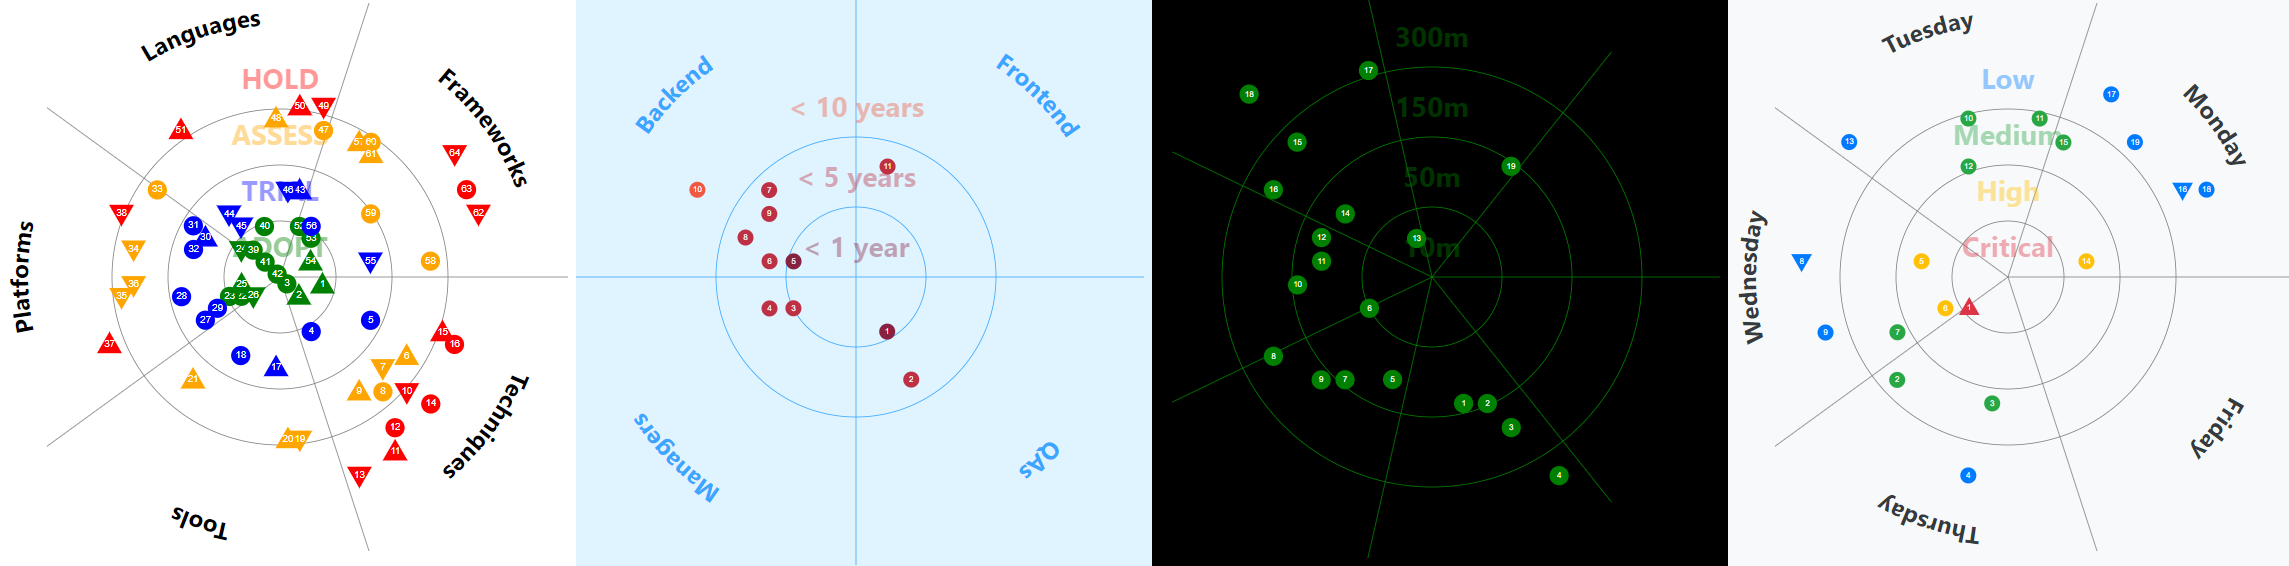
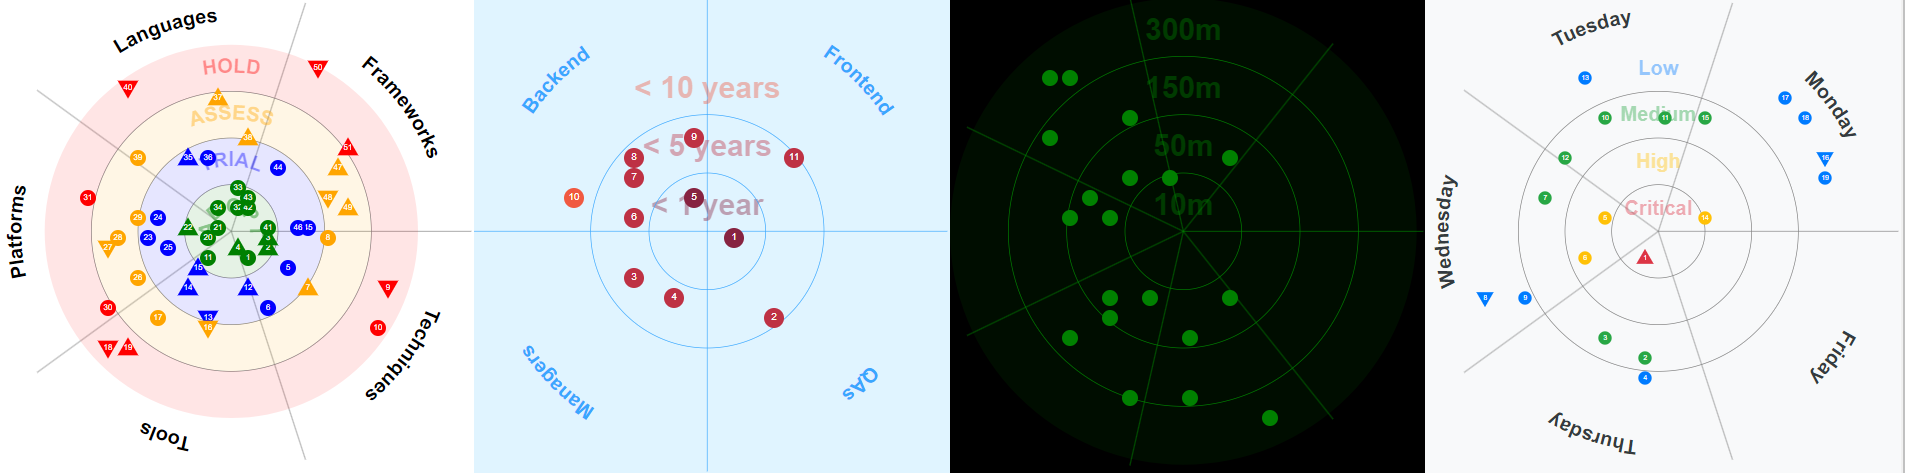
Add sector highlighting and tooltip enablement

diff --git a/tests/RadarRenderer.test.ts b/tests/RadarRenderer.test.ts
@@ -8,6 +8,22 @@ const getTooltipElement = () => getRadarElement()._children[2];
 
 let elements: any = {};
 
+const findElementById = (element: any, id: string) :any => {
+    if (element._attributes['id'] === id) {
+        return element;
+    } else if (element._children.length > 0) {
+        for (let i = 0; i < element._children.length; i++) {
+            const child = findElementById(element._children[i], id);
+            if (child !== undefined) {
+                return child;
+            }
+        }
+        
+    }
+
+return undefined;
+};
+
 jest.mock('d3', () => ({
     select: jest.fn().mockImplementation((name: string) => {
         return elements[name];
@@ -87,6 +103,7 @@ describe('RadarRenderer', () => {
     let renderer: RadarRenderer;
 
     const render = () => {
+        elements = { '#test': mockD3Element('#test') };
         radar = new EgRadar(config);
         renderer = new RadarRenderer(radar);
         renderer.render('test');
@@ -117,7 +134,7 @@ describe('RadarRenderer', () => {
                 font: "Arial",
                 tooltip: { background: "#abc", fontSize: 15, textColor: "#def" },
                 rings: { showLabels: true, fontSize: 30, showCurvedLabels: false },
-                sectors: {showLabels: true, textColor: "#fff", fontSize: 30}
+                sectors: { showLabels: true, textColor: "#fff", fontSize: 30, highlight: true }
             }
         };
         (d3.select as jest.Mock).mockClear();
@@ -314,7 +331,7 @@ describe('RadarRenderer', () => {
                 render();
 
                 const ringLabelsElement = getGridElement()._children.filter((child: any) => child._attributes["id"] === 'ringLabels_test')[0];
-                const ringLabels = ringLabelsElement._children.filter((child:any) => child._name === "text").map((child:any) => child._children[0]);
+                const ringLabels = ringLabelsElement._children.filter((child: any) => child._name === "text").map((child: any) => child._children[0]);
 
                 expect(ringLabels.length).toEqual(config.rings.length);
 
@@ -498,14 +515,29 @@ describe('RadarRenderer', () => {
             expect(config.onSelect).toHaveBeenCalledWith(entry);
         });
 
-        it('should highlight sector on click event', () => {
+       it('should highlight sector on click event, highlight = true', () => {
             click({}, entry);
 
             expect(config.onSelect).toHaveBeenCalledWith(entry);
+            
+            expect(elements['#test'].select).toHaveBeenCalledWith("#legendText0_test");
+            expect(elements['#test'].select).toHaveBeenCalledWith("#legendText1_test");
+            expect(elements['#test'].select).toHaveBeenCalledWith("#legendText2_test");
 
             expect(getSvgElement()._children[1]._styles['opacity']).toEqual(1);
             expect(getSvgElement()._children[2]._styles['opacity']).toEqual(0.3);
             expect(getSvgElement()._children[3]._styles['opacity']).toEqual(0.3);
+        });
+
+        it('should not highlight sector on click event, highlight = false', () => {
+            config.style!.sectors!.highlight = false;
+            render();
+
+            click({}, entry);
+            expect(elements['#test'].select).not.toHaveBeenCalledWith("#legendText0_test");
+            expect(elements['#test'].select).not.toHaveBeenCalledWith("#legendText1_test");
+            expect(elements['#test'].select).not.toHaveBeenCalledWith("#legendText2_test");
+            expect(config.onSelect).toHaveBeenCalledWith(entry);
         });
 
     });
@@ -557,7 +589,7 @@ describe('RadarRenderer', () => {
 
         expect(blipLabel._attributes['y']).toEqual(3);
         expect(blipLabel._attributes['text-anchor']).toEqual("middle");
-        expect(blipLabel._styles['fill']).toEqual("#fff");
+        expect(blipLabel._styles['fill']).toEqual("white");
         expect(blipLabel._styles['font-family']).toEqual(config.style?.font);
         expect(blipLabel._styles['font-size']).toEqual(config.style?.blips?.fontSize);
         expect(blipLabel._styles['pointer-events']).toEqual("none");

diff --git a/src/RadarRenderer.ts b/src/RadarRenderer.ts
@@ -179,7 +179,7 @@ export class RadarRenderer {
             .text(entry.id + 1)
             .attr("y", 3)
             .attr("text-anchor", "middle")
-            .style("fill", "#fff")
+            .style("fill", this.radar.style.blips?.textColor)
             .style("font-family", this.radar.style.font)
             .style("font-size", this.radar.style.blips!.fontSize)
             .style("pointer-events", "none")
@@ -267,25 +267,27 @@ export class RadarRenderer {
     }
 
     private highlightSector(sector: Sector) {
-        this.svg.selectAll(".blip")
-            .style("opacity", (entry: any) => sector.id == entry.sector?.id ? 1 : 0.3);
-        if (this.radar.style.sectors?.showLabels) {
-            for (let i = 0; i < this.radar.sectors.length; i++) {
-                this.svg.select("#legendText" + i + "_" + this.svgId)
-                    .style("opacity", sector.id == i ? 1 : 0.3);
+        if (this.radar.style.sectors?.highlight) {
+            this.svg.selectAll(".blip").style("opacity", (entry: any) => sector.id == entry.sector?.id ? 1 : 0.3);
+
+            if (this.radar.style.sectors?.showLabels) {
+                for (let i = 0; i < this.radar.sectors.length; i++) {
+                    this.svg.select("#legendText" + i + "_" + this.svgId)
+                        .style("opacity", sector.id == i ? 1 : 0.3);
+                }
             }
         }
     }
 
     private showTooltip(entry: RadarEntry) {
-        if (entry) {
+        if (entry && this.radar.style.tooltip?.enabled) {
             let offset = 5;
             this.tooltip.style("opacity", 1);
             let text = this.tooltip.select("text").text((entry.id + 1) + ". " + entry.label)
             let bbox = (text.node() as SVGAElement).getBBox();
             if (bbox) {
-                text.attr("transform", `translate(${offset}, ${(bbox.height + this.config.style?.tooltip?.fontSize! + offset) / 2})`)
-                this.tooltip.attr("transform", `translate(${entry.point.x + this.config.style?.tooltip?.fontSize! / 2 + offset}, ${entry.point.y + offset})`)
+                text.attr("transform", `translate(${offset}, ${(bbox.height + this.radar.style?.tooltip?.fontSize! + offset) / 2})`)
+                this.tooltip.attr("transform", `translate(${entry.point.x + this.radar.style?.tooltip?.fontSize! / 2 + offset}, ${entry.point.y + offset})`)
                 this.tooltip.select("rect")
                     .attr("width", bbox.width + offset * 2)
                     .attr("height", bbox.height + offset * 2)

diff --git a/src/types/StyleConfig.ts b/src/types/StyleConfig.ts
@@ -9,6 +9,7 @@ export interface StyleConfig {
         textColor?: string;
     },
     tooltip?: {
+        enabled?: boolean;
         background?: string;
         textColor?: string;
         fontSize?: number;
@@ -21,6 +22,7 @@ export interface StyleConfig {
     },
     sectors?: {
         showLabels?: boolean;
+        highlight?: boolean;
         textColor?: string;
         fontSize?: number;
     }

diff --git a/src/EgRadar.ts b/src/EgRadar.ts
@@ -19,6 +19,7 @@ const DEFAULT_CONFIG: StyleConfig = {
         textColor: "white"
     },
     tooltip: {
+        enabled: true,
         background: "black",
         textColor: "white",
         fontSize: 15
@@ -31,6 +32,7 @@ const DEFAULT_CONFIG: StyleConfig = {
     },
     sectors: {
         showLabels: true,
+        highlight: false,
         textColor: "black",
         fontSize: 30
     },

diff --git a/tests/EgRadar.test.ts b/tests/EgRadar.test.ts
@@ -237,6 +237,7 @@ describe('EgRadar entry layout', () => {
                 fontSize: 12
             },
             tooltip: {
+                enabled: true,
                 background: 'black',
                 textColor: 'white',
                 fontSize: 15

diff --git a/README.md b/README.md
@@ -101,6 +101,7 @@ Radar configuration object has following style properties:
 | style.rings.showCurvedLabels | boolean | true                    | Renders ring label in arc. Long text may not be rendered                                       |
 | style.sectors                | object  |                         | Sector style configuration                                                                     |
 | style.sectors.showLabels     | boolean | true                    | Show sector labels                                                                             |
+| style.sectors.highlight      | boolean | false                   | Highlight sector on entry selection                                                            |
 | style.sectors.fontSize       | number  | 30                      | Sector text font size                                                                          |
 | style.sectors.textColor      | string  | black                   | Sector text color                                                                              |
 | style.tooltip                | object  |                         | Tooltip style configuration                                                                    |
@@ -108,12 +109,11 @@ Radar configuration object has following style properties:
 | style.tooltip.background     | string  | black                   | Tooltip background color                                                                       |
 | style.tooltip.fontSize       | number  | 15                      | Tooltip text font size                                                                         |
 
+### Contributions
 
+Contributions are welcome. Please read [CONTRIBUTING.md]() for more information. <br><br>
 
-
-
-## Contributions
-
-Contributions are welcome. Please read [CONTRIBUTING.md]() for more information. This project exists thanks to all the people who contribute:
-
-
+Special thanks to all the people who have already contributed to this project! 
+<a href="https://github.com/EdgarsGarsneks/eg-radar/graphs/contributors">
+  <img src="https://contrib.rocks/image?repo=EdgarsGarsneks/eg-radar" />
+</a>
